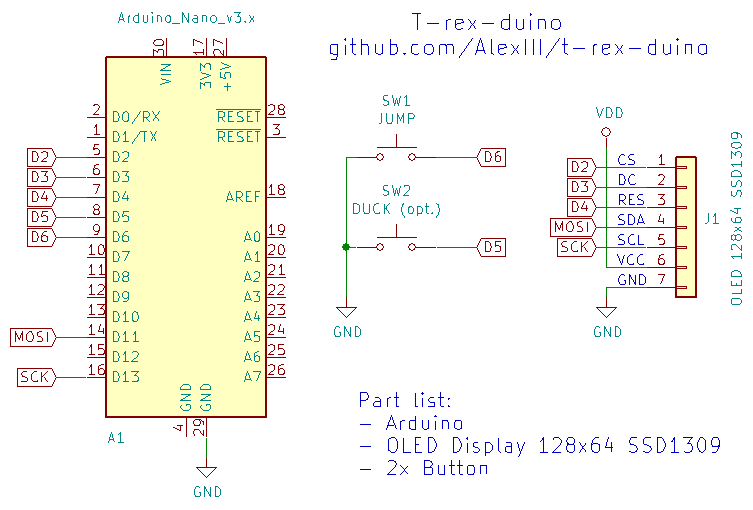
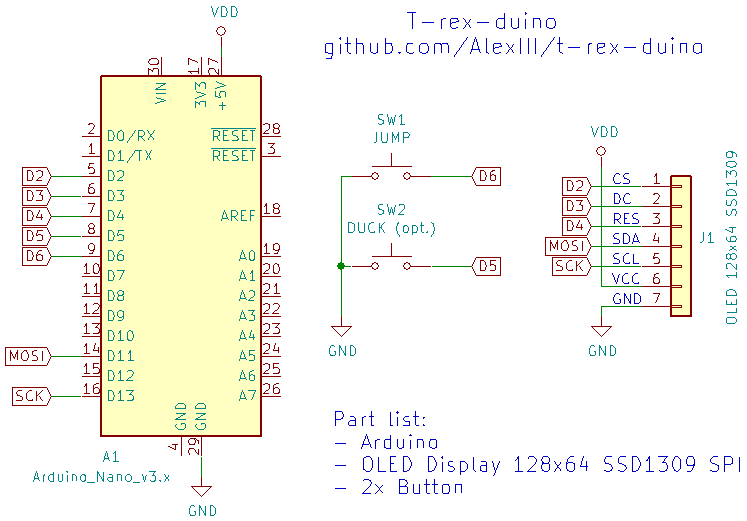
add support for SH1106/SSD1306

diff --git a/t-rex-duino/I2C.h b/t-rex-duino/I2C.h
@@ -1,0 +1,126 @@
+/*
+ * Project name: T-rex-duino
+ * Description: T-rex game from Chrome brower rewritten for Arduino
+ * Project page: https://github.com/AlexIII/t-rex-duino
+ * Author: github.com/AlexIII
+ * E-mail: endoftheworld@bk.ru
+ * License: MIT
+*/ 
+
+#ifndef _I2C_CALSS_H_
+#define _I2C_CALSS_H_
+
+#include <compat/twi.h>
+
+struct I2C {
+  I2C() {}
+  
+  static void init(const uint32_t clock) {
+    TWSR = 0;                         // no prescaler
+    TWBR = ((F_CPU/clock)-16)/2;  // must be > 10 for stable operation
+  }
+  
+  static void deinit(void) {
+    TWBR = 0;
+    TWCR = 0;
+  }
+
+  static uint8_t start(uint8_t address) {
+    uint8_t   twst, i;
+    // send START condition
+    TWCR = (1<<TWINT) | (1<<TWSTA) | (1<<TWEN);
+  
+    // wait until transmission completed
+    //while(!(TWCR & (1<<TWINT)));
+    for(i = 255; i; --i) {
+      if(TWCR & (1<<TWINT)) break;
+      asm volatile("nop");
+      asm volatile("nop");
+    }
+    if(!i) return 0xFF;
+  
+    // check value of TWI Status Register. Mask prescaler bits.
+    twst = TW_STATUS & 0xF8;
+    if ( (twst != TW_START) && (twst != TW_REP_START)) return 1;
+  
+    // send device address
+    TWDR = address;
+    TWCR = (1<<TWINT) | (1<<TWEN);
+  
+    // wail until transmission completed and ACK/NACK has been received
+    //while(!(TWCR & (1<<TWINT)));
+    for(i = 255; i; --i) {
+      if(TWCR & (1<<TWINT)) break;
+      asm volatile("nop");
+      asm volatile("nop");
+    }
+    if(!i) return 0xFF;
+    
+    // check value of TWI Status Register. Mask prescaler bits.
+    twst = TW_STATUS & 0xF8;
+    if ( (twst != TW_MT_SLA_ACK) && (twst != TW_MR_SLA_ACK) ) return 1;
+  
+    return 0;
+  }
+
+  static void stop(void) {
+    //send stop condition
+    TWCR = (1<<TWINT) | (1<<TWEN) | (1<<TWSTO);
+    
+    // wait until stop condition is executed and bus released
+    //while(TWCR & (1<<TWSTO));
+    for(uint8_t i = 255; i; --i) {
+      if(!(TWCR & (1<<TWSTO))) break;
+      asm volatile("nop");
+      asm volatile("nop");
+    }
+  }
+  
+  static uint8_t write(uint8_t data) {  
+    uint8_t   twst;
+      
+    // send data to the previously addressed device
+    TWDR = data;
+    TWCR = (1<<TWINT) | (1<<TWEN);
+  
+    // wait until transmission completed
+    //while(!(TWCR & (1<<TWINT)));
+    uint8_t i;
+    for(i = 255; i; --i) {
+      if(TWCR & (1<<TWINT)) break;
+      asm volatile("nop");
+      asm volatile("nop");
+    }
+    if(!i) return 0xFF;
+    
+    // check value of TWI Status Register. Mask prescaler bits
+    twst = TW_STATUS & 0xF8;
+    if( twst != TW_MT_DATA_ACK) return twst;
+    return 0;
+  }
+
+  static uint8_t readAck(void) {
+    TWCR = (1<<TWINT) | (1<<TWEN) | (1<<TWEA);
+    //while(!(TWCR & (1<<TWINT)));
+    for(uint8_t i = 255; i; --i) {
+      if(TWCR & (1<<TWINT)) break;
+      asm volatile("nop");
+      asm volatile("nop");
+    }
+    return TWDR;
+  }
+  
+  static uint8_t readNak(void) {
+    TWCR = (1<<TWINT) | (1<<TWEN);
+    //while(!(TWCR & (1<<TWINT)));
+    for(uint8_t i = 255; i; --i) {
+      if(TWCR & (1<<TWINT)) break;
+      asm volatile("nop");
+      asm volatile("nop");
+    }
+    return TWDR;
+  }
+};
+
+
+#endif

diff --git a/t-rex-duino/SH1106.h b/t-rex-duino/SH1106.h
@@ -1,0 +1,120 @@
+/*
+ * Project name: T-rex-duino
+ * Description: T-rex game from Chrome brower rewritten for Arduino
+ * Project page: https://github.com/AlexIII/t-rex-duino
+ * Author: github.com/AlexIII
+ * E-mail: endoftheworld@bk.ru
+ * License: MIT
+*/ 
+
+#ifndef _SH1106_H_
+#define _SH1106_H_
+
+#define SH1106_I2C_SCL_CLOCK  800000UL
+#define SH1106_I2C_ADDR 0b01111000
+#define SH1106_COMMAND 0x00
+#define SH1106_DATA 0x40
+
+#define SH1106_COLS_USED 128
+#define SH1106_PAGES 8
+
+#ifndef LCD_SSD1306
+  #define SH1106_COLS_TOTAL 130
+#else 
+  #define SH1106_COLS_TOTAL SH1106_COLS_USED
+#endif
+
+template<class I2C_TYPE>
+class SH1106 {
+  I2C_TYPE &i2c;
+  const uint16_t screenBufferSize;
+public:
+  enum AddressingMode {
+    HorizontalAddressingMode = 0x00,
+    VerticalAddressingMode = 0x01,
+    PageAddressingMode = 0x02,
+  };
+  SH1106(I2C_TYPE &i2c, const uint16_t screenBufferSize): 
+    i2c(i2c), screenBufferSize(screenBufferSize) {}
+  void begin() {
+    uint8_t col = 0;
+    uint8_t page = 0;
+  }
+  void fillScreen(const uint8_t* buffer) {
+    reinit();
+    sendd(buffer, screenBufferSize);
+  }
+  void fillScreen(const uint8_t* buffer, const uint16_t size, const uint8_t stride = 0) { //stride is not supported
+    reinit();
+    sendd(buffer, size);
+  }
+  void setInverse(const bool v) {
+    inverted = v;
+    reinit();
+  }
+  //Only PageAddressingMode works for SH1106
+  //Here we're emulating HorizontalAddressingMode programmatically
+  void setAddressingMode(const AddressingMode addressingMode) {} 
+  
+private:
+  /* lcd control */
+  void reinit() {
+    i2c.deinit();
+    i2c.init(SH1106_I2C_SCL_CLOCK);
+    sendc(0xAF); //display on
+    sendc(inverted? 0xA7 : 0xA6); //inversion
+  }
+  
+  /* send bytes */
+  void sendc(const uint8_t cmd) {
+    i2c.start(SH1106_I2C_ADDR);
+    i2c.write(SH1106_COMMAND);
+    i2c.write(cmd);
+    i2c.stop();
+  }
+  void sendc(const uint8_t cmd1, const uint8_t cmd2) {
+    i2c.start(SH1106_I2C_ADDR);
+    i2c.write(SH1106_COMMAND);
+    i2c.write(cmd1);
+    i2c.write(cmd2);
+    i2c.stop();
+  }
+  void sendc(const uint8_t cmd1, const uint8_t cmd2, const uint8_t cmd3) {
+    i2c.start(SH1106_I2C_ADDR);
+    i2c.write(SH1106_COMMAND);
+    i2c.write(cmd1);
+    i2c.write(cmd2);
+    i2c.write(cmd3);
+    i2c.stop();
+  }
+  void sendd(const uint8_t* d, uint16_t sz) {  
+    const uint8_t blackPx = inverted? 0xFF : 0;
+    while(sz) {  //page cycle
+      sendc(0xB0 + page); //set page address to i (0..7)
+      sendc(0x00 + (col&0x0F)); //Sets 4 lower bits of column address 
+      sendc(0x10 + (col>>4)); //Sets 4 higher bits of column address 
+      
+      i2c.start(SH1106_I2C_ADDR);
+      i2c.write(SH1106_DATA);
+      while(sz) { //column cycle
+        i2c.write(*d++);
+        --sz;
+        if(++col >= SH1106_COLS_USED) {
+          while(col++ < SH1106_COLS_TOTAL) i2c.write(blackPx);
+          col = 0;
+          break;
+        }
+      }
+      i2c.stop();
+    
+      if(col == 0 && ++page >= SH1106_PAGES) page = 0;
+    }     
+  }
+
+  uint8_t col = 0;
+  uint8_t page = 0;
+  bool inverted = false;
+};
+
+
+#endif

diff --git a/readme.md b/readme.md
@@ -12,6 +12,9 @@ Just 3 components needed:
 
 [Youtube video](https://www.youtube.com/watch?v=635SnybBRD8)
 
+**Update**
+Now supporting [OLED display SH1106/SSD1306 I2C](#using-oled-display-sh1106/ssd1306-i2c).
+
 ## Instructions
 
 0. Assemble
@@ -21,6 +24,32 @@ Just 3 components needed:
 1. Flash [that sketch](https://github.com/AlexIII/t-rex-duino/releases/download/v1.0/Arduino-sketch-t-rex-duino-v1.0.zip) to your Arduino
 2. Play!
 3. Repeat from step 2
+
+## Using OLED display SH1106/SSD1306 I2C
+
+<img width="250" src="img/t-rex-demo-sh1106.gif" />
+
+0. In order to use SH1106/SSD1306 you will need to add two 470 ohm resistors to the dispaly board. 
+You can add these resistors right on top of 10k resistors that already present (or replace them).
+
+<img width="250" src="img/res-mod-sh1106.jpg" />
+
+1. Assemble
+
+<img width="600" src="img/sch-sh1106.png" />
+
+3. Select OLED display type at the beginning of `t-rex-duino.ino` sketch by uncommenting one of the following lines (SSD1309 selected by default).
+```
+//#define LCD_SSD1309
+//#define LCD_SH1106
+//#define LCD_SSD1306
+```
+Flash the sketch.
+
+Note that in order to achieve desirable performance I2C is substantially overclocked (it works at 800kHz vs 400kHz as per display specification).
+It is possible that not every display will work under these conditions.
+The display I have works fine mostly, but a stray broken frame still appears now and then.
+As much as I can assume **small artifacts are unavoidable with this display**.
 
 ## License
 
